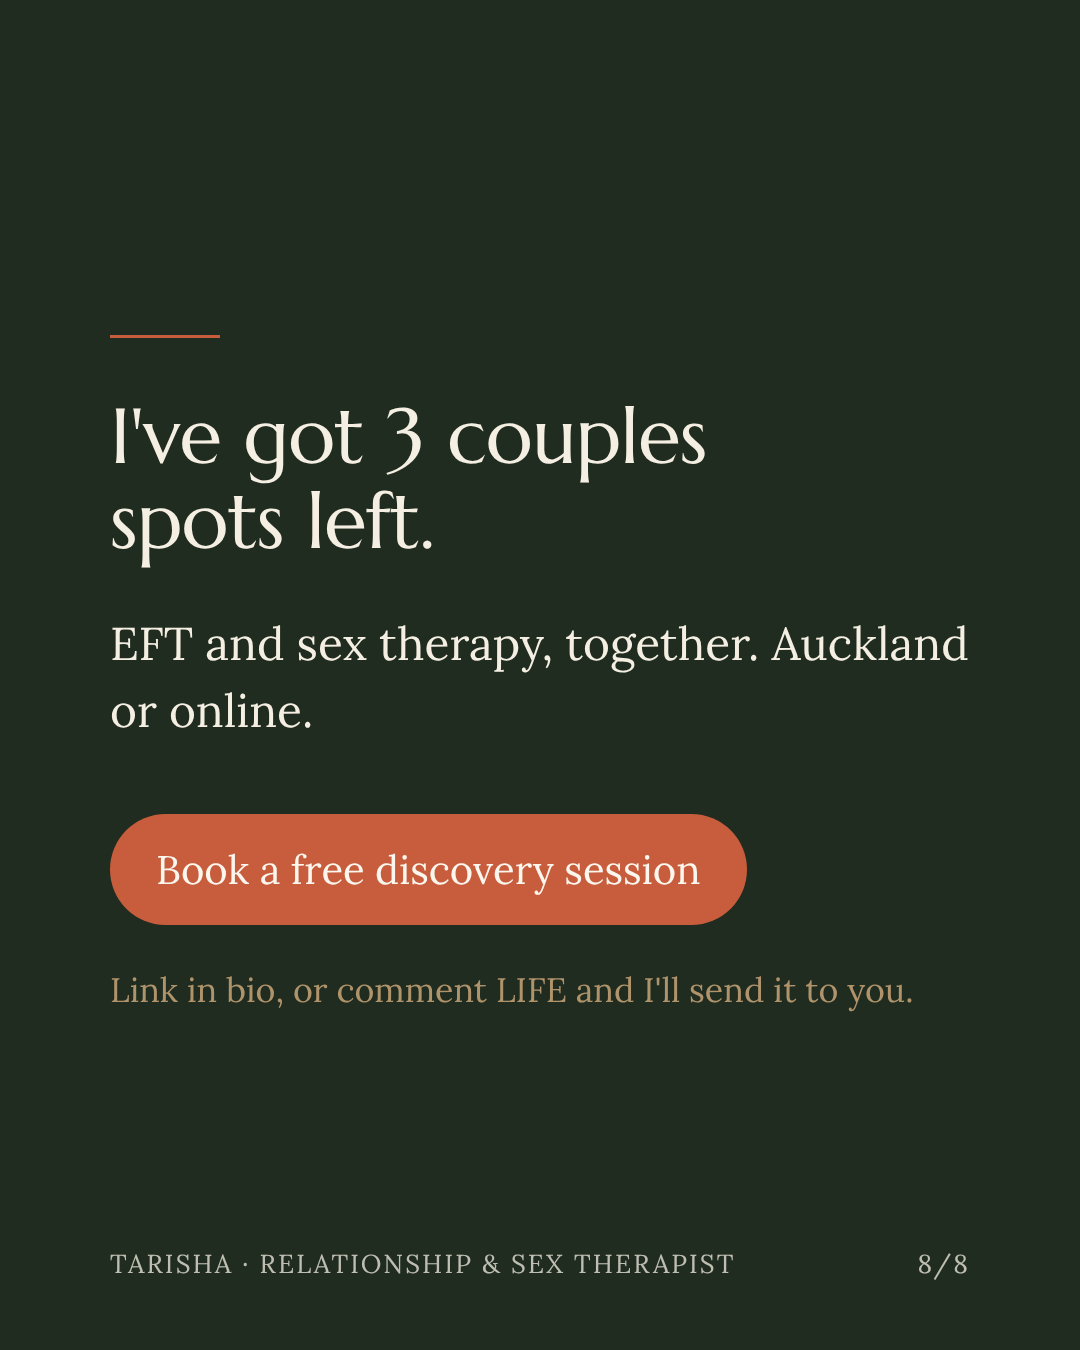
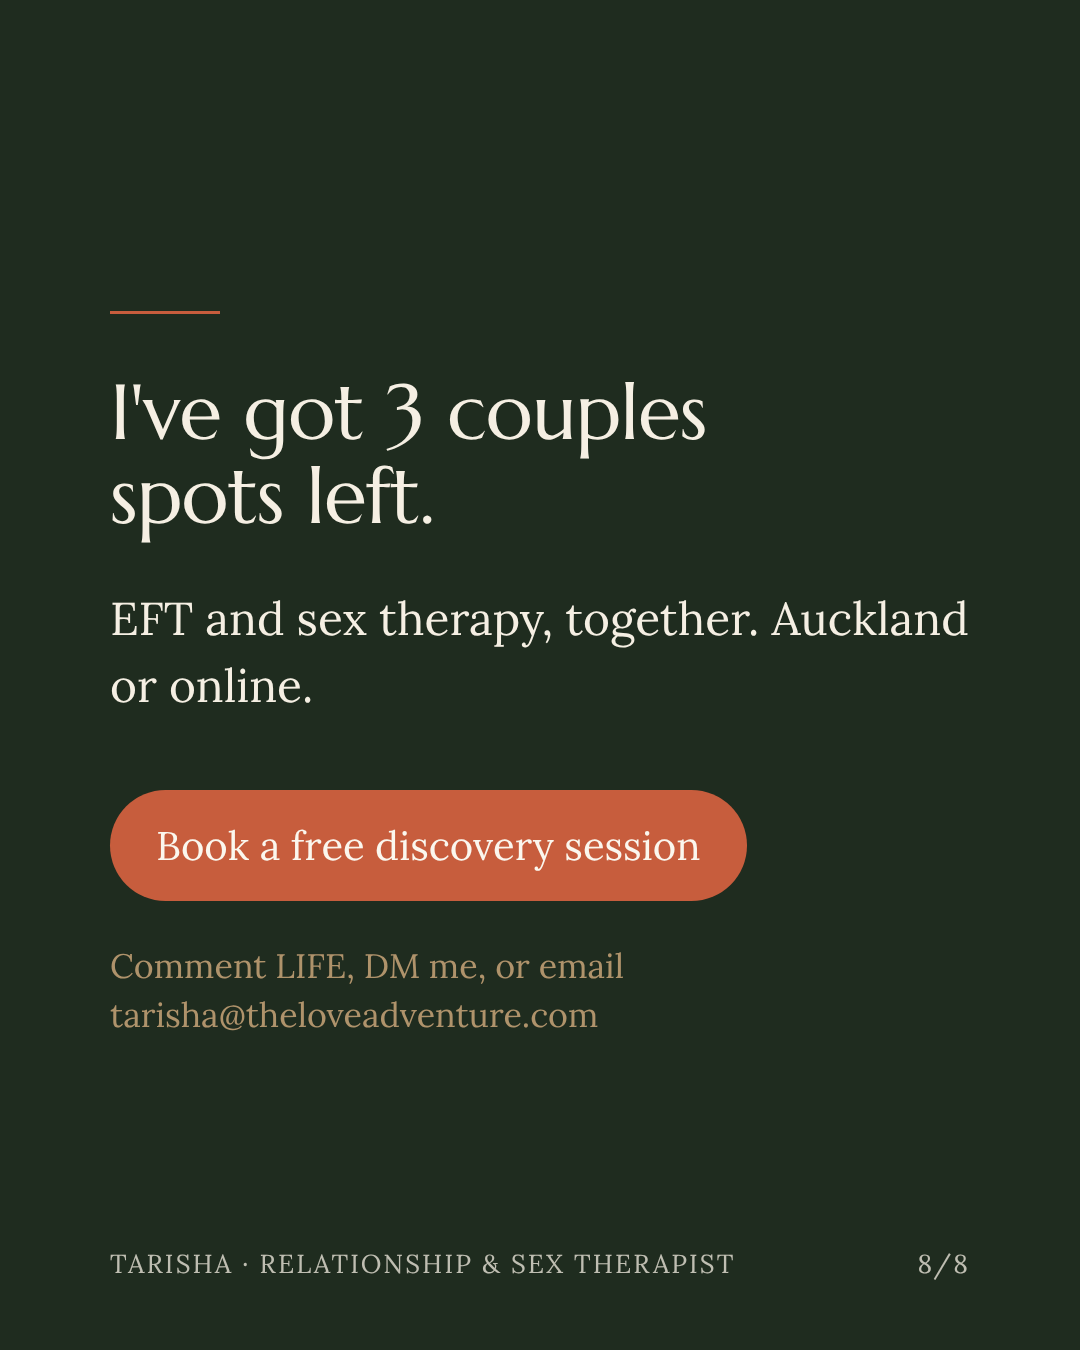
Replace link in bio with comment, DM or email
Claude-Session: https://claude.ai/code/session_01L9zYHN4Ybe6AwgamPHFx7A

Changed region(s): [[0.0917, 0.28, 0.9167, 0.7778]]

diff --git a/content/carousel/carousel.html b/content/carousel/carousel.html
@@ -109,7 +109,7 @@ em{font-style:italic}
 <h2>I've got 3 couples spots left.</h2>
 <p class="lead">EFT and sex therapy, together. Auckland or online.</p>
 <div class="cta">Book a free discovery session</div>
-<p class="small goldt">Link in bio, or comment LIFE and I'll send it to you.</p>
+<p class="small goldt">Comment LIFE, DM me, or email<br>tarisha@theloveadventure.com</p>
 <div class="foot"><span>Tarisha · Relationship &amp; Sex Therapist</span><span>8/8</span></div>
 </section>
 </body></html>

diff --git a/content/carousel/preview.html b/content/carousel/preview.html
@@ -111,7 +111,7 @@ em{font-style:italic}
 <h2>I've got 3 couples spots left.</h2>
 <p class="lead">EFT and sex therapy, together. Auckland or online.</p>
 <div class="cta">Book a free discovery session</div>
-<p class="small goldt">Link in bio, or comment LIFE and I'll send it to you.</p>
+<p class="small goldt">Comment LIFE, DM me, or email<br>tarisha@theloveadventure.com</p>
 <div class="foot"><span>Tarisha · Relationship &amp; Sex Therapist</span><span>8/8</span></div>
 </section>
 </body></html>

diff --git a/content/carousel/caption.md b/content/carousel/caption.md
@@ -14,7 +14,7 @@ I'm a relationship and sex therapist, trained in Emotionally Focused Therapy. I 
 
 I've got 3 couples spots left. Auckland or online.
 
-Comment LIFE or DM me and I'll send you the link to book a free discovery session. It's a chat about what you two want and whether I can help.
+Comment LIFE, DM me, or email tarisha@theloveadventure.com and I'll send you the link to book a free discovery session. It's a chat about what you two want and whether I can help.
 
 Love life matters. Let's figure this out together so you don't end up polite flatmates dying inside.
 
@@ -24,6 +24,6 @@ Love life matters. Let's figure this out together so you don't end up polite fla
 
 Use your full post text as the caption, with the same 8 slides.
 
-## Booking link (for DMs and your bio)
+## Booking link (to send people who comment, DM or email)
 
 https://tidycal.com/tarishatourok/get-the-love-you-desire-discovery-session

diff --git a/content/couples_campaign.md b/content/couples_campaign.md
@@ -396,7 +396,7 @@ Caption: Your desire's not gone, darling. It's buried. Comment COUPLES and I'll 
 **REEL 4: Value (point to long video)**
 On-screen hook: *The 2 cycles killing your sex life*
 Script:
-"There's an emotional cycle during the day and a sexual cycle at night. And they feed each other. I made a full five minute video breaking it down. Link's in my bio. Watch it with your partner tonight. Then just ask each other: which bit was us?"
+"There's an emotional cycle during the day and a sexual cycle at night. And they feed each other. I made a full five minute video breaking it down. Comment VIDEO and I'll send it to you. Watch it with your partner tonight. Then just ask each other: which bit was us?"
 Caption: Watch it together. Then tell me what you noticed. Comment COUPLES to book a free discovery session.
 
 **REEL 5: Authority (Why EFT)**
